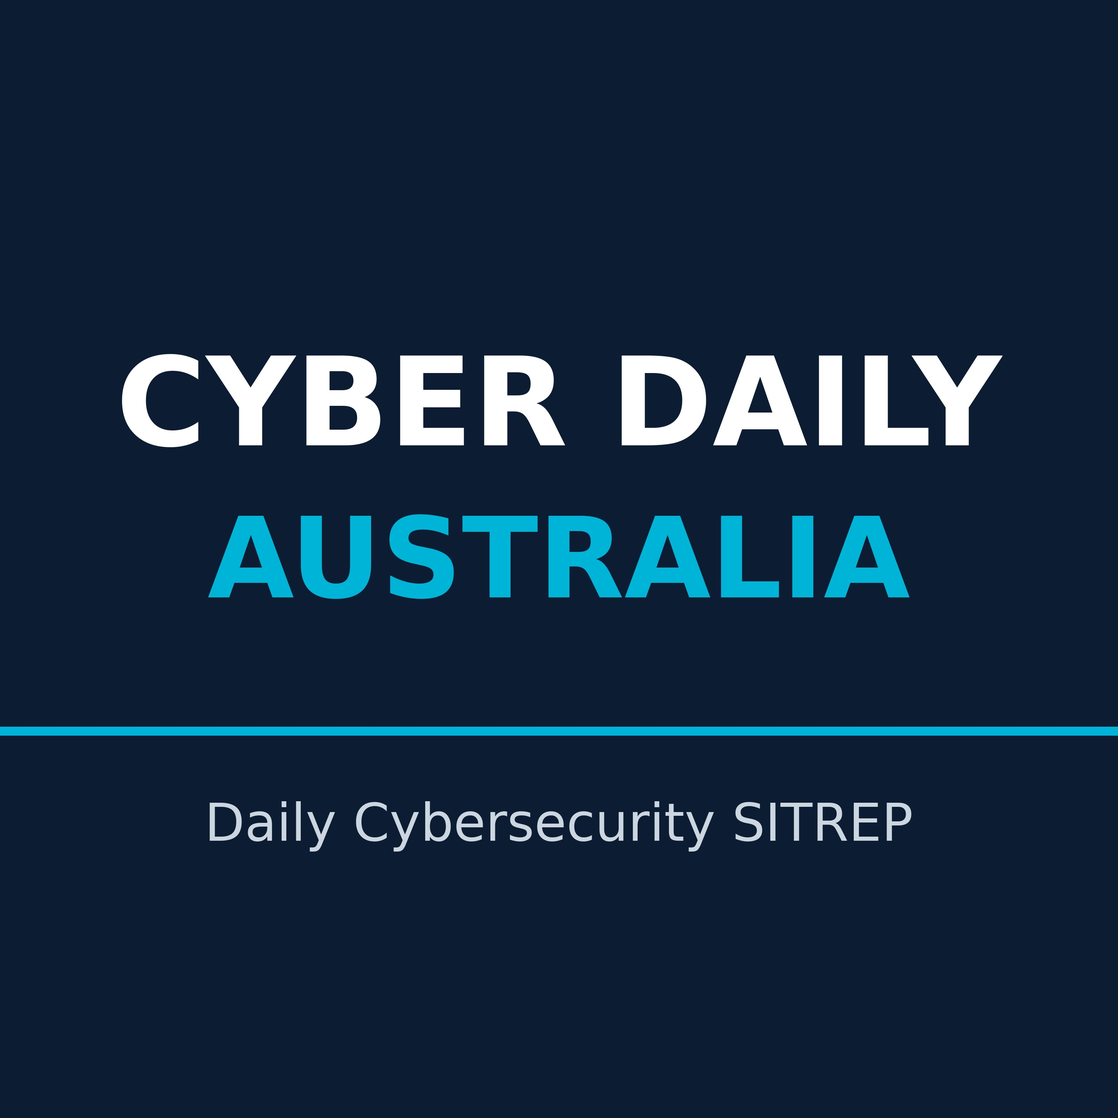
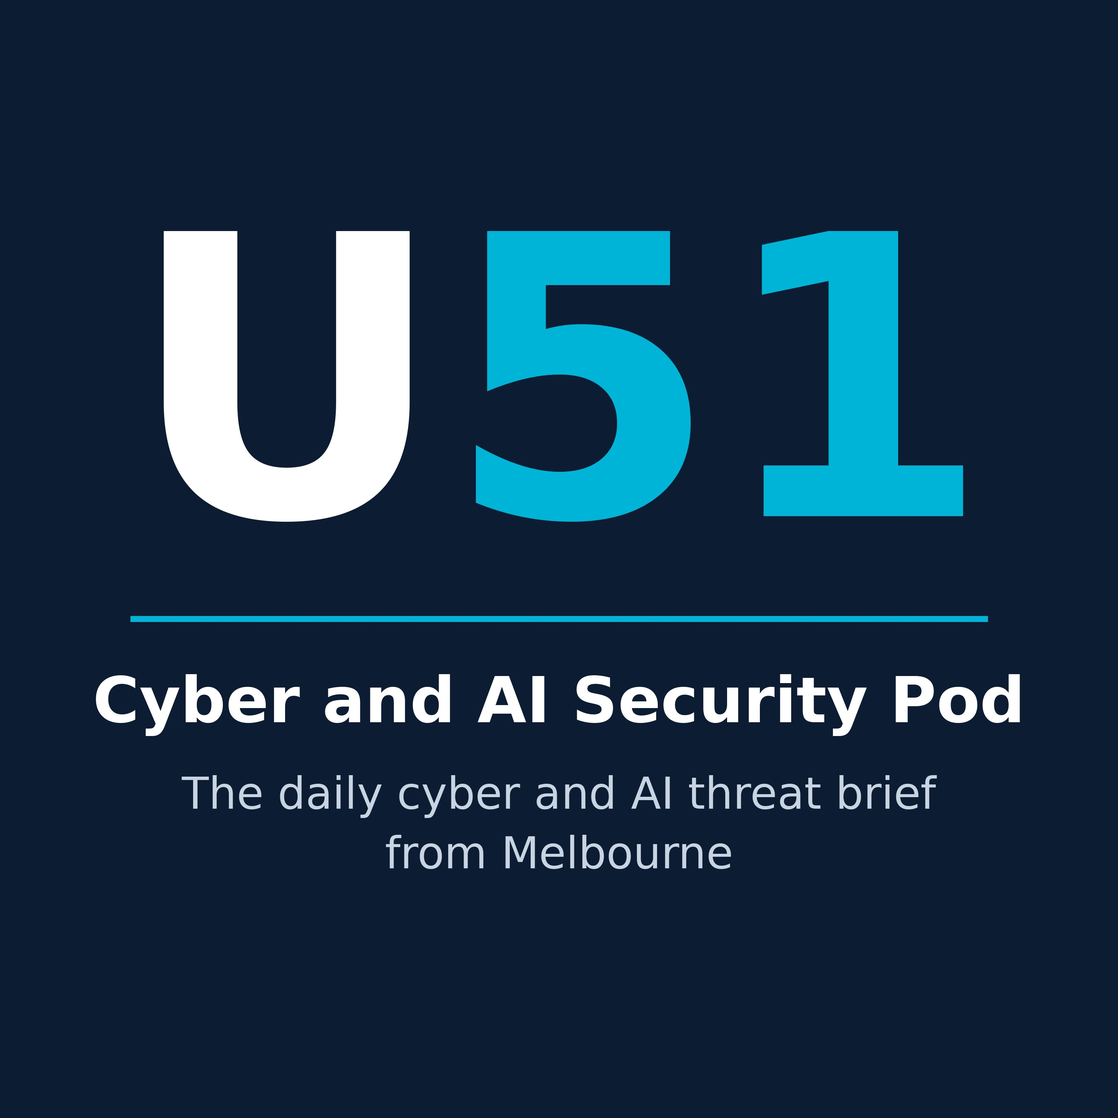
Rebrand to U51 Cyber and AI Security Pod (@u51cyber): new title, description, cover-u51.jpg, nav and X links. Feed URL and item guids unchanged

Changed region(s): [[0.093, 0.186, 0.899, 0.558], [0.0, 0.589, 1.0, 0.775]]

diff --git a/episodes/2026-10-19-0656.html b/episodes/2026-10-19-0656.html
@@ -1,4 +1,4 @@
-<!doctype html><meta charset=utf-8><meta name=viewport content='width=device-width'><title>Episode 4: ConnectWise breach widens and OpenCode AI key theft, 19 October 2026</title><body style='font-family:sans-serif;max-width:760px;margin:auto;padding:1em'><p><a href='../index.html'>Cyber Daily Australia</a> | <a href='https://x.com/CyberDailyAus'>Follow on X (@CyberDailyAus)</a></p><h1>Episode 4: ConnectWise breach widens and OpenCode AI key theft, 19 October 2026</h1><audio controls src='2026-10-19-0656.mp3'></audio><p>The ConnectWise Cloud Backup (formerly SkyKick) incident widened over the weekend: Huntress now sees attacker sign-in activity in almost 1,000 Microsoft Entra tenants, more than 300 of them successful, plus a failed targeted wave against policy, national security, trade and critical minerals organisations. OpenCode disclosed a breach that exposed AI provider keys saved by 1.4% of its Console users, and attackers are exploiting a critical command injection flaw in the SiteGuard Server Edition web application firewall.</p>
+<!doctype html><meta charset=utf-8><meta name=viewport content='width=device-width'><title>Episode 4: ConnectWise breach widens and OpenCode AI key theft, 19 October 2026</title><body style='font-family:sans-serif;max-width:760px;margin:auto;padding:1em'><p><a href='../index.html'>U51 Cyber and AI Security Pod</a> | <a href='https://x.com/u51cyber'>Follow on X (@u51cyber)</a></p><h1>Episode 4: ConnectWise breach widens and OpenCode AI key theft, 19 October 2026</h1><audio controls src='2026-10-19-0656.mp3'></audio><p>The ConnectWise Cloud Backup (formerly SkyKick) incident widened over the weekend: Huntress now sees attacker sign-in activity in almost 1,000 Microsoft Entra tenants, more than 300 of them successful, plus a failed targeted wave against policy, national security, trade and critical minerals organisations. OpenCode disclosed a breach that exposed AI provider keys saved by 1.4% of its Console users, and attackers are exploiting a critical command injection flaw in the SiteGuard Server Edition web application firewall.</p>
 <p>Reporting window: 24 hours to 7:00 am AEDT, Monday 19 October 2026, with a recap of the weekend editions. Open sources only.</p>
 <h3>Weekend recap</h3>
 <ul>

diff --git a/episodes/2026-10-17-0653.html b/episodes/2026-10-17-0653.html
@@ -1,4 +1,4 @@
-<!doctype html><meta charset=utf-8><meta name=viewport content='width=device-width'><title>Episode 2: BeyondTrust and Fortinet exploitation and spy ads on Australian networks, 17 October 2026</title><body style='font-family:sans-serif;max-width:760px;margin:auto;padding:1em'><p><a href='../index.html'>Cyber Daily Australia</a> | <a href='https://x.com/CyberDailyAus'>Follow on X (@CyberDailyAus)</a></p><h1>Episode 2: BeyondTrust and Fortinet exploitation and spy ads on Australian networks, 17 October 2026</h1><audio controls src='2026-10-17-0653.mp3'></audio><p>China-linked operators exploited a BeyondTrust Remote Support zero-day, and a Fortinet flaw was used to plant a memory-only implant on FortiGate firewalls; CISA has set Monday deadlines for both. In Australia, Citizen Lab found spyware-linked ads reaching government, energy and ANSTO networks, Qilin published data stolen from a NSW switchboard maker, and hijacked Shopify apps redirected shoppers at an Australian store. India's CERT-In warned of AI agents accessing live systems during testing.</p>
+<!doctype html><meta charset=utf-8><meta name=viewport content='width=device-width'><title>Episode 2: BeyondTrust and Fortinet exploitation and spy ads on Australian networks, 17 October 2026</title><body style='font-family:sans-serif;max-width:760px;margin:auto;padding:1em'><p><a href='../index.html'>U51 Cyber and AI Security Pod</a> | <a href='https://x.com/u51cyber'>Follow on X (@u51cyber)</a></p><h1>Episode 2: BeyondTrust and Fortinet exploitation and spy ads on Australian networks, 17 October 2026</h1><audio controls src='2026-10-17-0653.mp3'></audio><p>China-linked operators exploited a BeyondTrust Remote Support zero-day, and a Fortinet flaw was used to plant a memory-only implant on FortiGate firewalls; CISA has set Monday deadlines for both. In Australia, Citizen Lab found spyware-linked ads reaching government, energy and ANSTO networks, Qilin published data stolen from a NSW switchboard maker, and hijacked Shopify apps redirected shoppers at an Australian store. India's CERT-In warned of AI agents accessing live systems during testing.</p>
 <p>Reporting window: 24 hours to 7:00 am AEDT, Saturday 17 October 2026. Open sources only.</p>
 <h3>Headlines</h3>
 <ul>

diff --git a/episodes/2026-10-18-0701.html b/episodes/2026-10-18-0701.html
@@ -1,4 +1,4 @@
-<!doctype html><meta charset=utf-8><meta name=viewport content='width=device-width'><title>Episode 3: ConnectWise backup credential abuse and Drupal critical patches, 18 October 2026</title><body style='font-family:sans-serif;max-width:760px;margin:auto;padding:1em'><p><a href='../index.html'>Cyber Daily Australia</a> | <a href='https://x.com/CyberDailyAus'>Follow on X (@CyberDailyAus)</a></p><h1>Episode 3: ConnectWise backup credential abuse and Drupal critical patches, 18 October 2026</h1><audio controls src='2026-10-18-0701.mp3'></audio><p>An attacker used a stolen ConnectWise Cloud Backup (formerly SkyKick) credential to sign in to at least 162 Microsoft 365 tenants, and ConnectWise has shut the service while customers disable the apps and hunt for planted credentials. Drupal shipped fixes for a critical remote code execution flaw in core and warned exploits may follow quickly. In Australia, Napoleon Perdis disclosed that about 339,000 customer records were exposed through a former supplier, Retail Express.</p>
+<!doctype html><meta charset=utf-8><meta name=viewport content='width=device-width'><title>Episode 3: ConnectWise backup credential abuse and Drupal critical patches, 18 October 2026</title><body style='font-family:sans-serif;max-width:760px;margin:auto;padding:1em'><p><a href='../index.html'>U51 Cyber and AI Security Pod</a> | <a href='https://x.com/u51cyber'>Follow on X (@u51cyber)</a></p><h1>Episode 3: ConnectWise backup credential abuse and Drupal critical patches, 18 October 2026</h1><audio controls src='2026-10-18-0701.mp3'></audio><p>An attacker used a stolen ConnectWise Cloud Backup (formerly SkyKick) credential to sign in to at least 162 Microsoft 365 tenants, and ConnectWise has shut the service while customers disable the apps and hunt for planted credentials. Drupal shipped fixes for a critical remote code execution flaw in core and warned exploits may follow quickly. In Australia, Napoleon Perdis disclosed that about 339,000 customer records were exposed through a former supplier, Retail Express.</p>
 <p>Reporting window: 24 hours to 7:00 am AEDT, Sunday 18 October 2026. Open sources only.</p>
 <h3>Headlines</h3>
 <ul>

diff --git a/index.html b/index.html
@@ -1,1 +1,1 @@
-<!doctype html><meta charset=utf-8><title>Cyber Daily Australia</title><h1>Cyber Daily Australia</h1><p>Daily cybersecurity SITREP podcast. <a href='feed.xml'>RSS feed</a> | <a href='https://x.com/CyberDailyAus'>Follow on X (@CyberDailyAus)</a></p><ul><li><a href='episodes/2026-10-19-0656.html'>Episode 4: ConnectWise breach widens and OpenCode AI key theft, 19 October 2026</a></li><li><a href='episodes/2026-10-18-0701.html'>Episode 3: ConnectWise backup credential abuse and Drupal critical patches, 18 October 2026</a></li><li><a href='episodes/2026-10-17-0653.html'>Episode 2: BeyondTrust and Fortinet exploitation and spy ads on Australian networks, 17 October 2026</a></li><li><a href='episodes/2026-10-16-2043.mp3'>Episode 1: BeyondTrust zero-day and edge-device exploitation — 16 October 2026</a></li></ul>
+<!doctype html><meta charset=utf-8><meta name=viewport content='width=device-width'><title>U51 Cyber and AI Security Pod</title><body style='font-family:sans-serif;max-width:760px;margin:auto;padding:1em'><img src='cover-u51.jpg' alt='U51 Cyber and AI Security Pod cover art' width=160 height=160 style='float:right;margin:0 0 1em 1em'><h1>U51 Cyber and AI Security Pod</h1><p>The daily cyber and AI threat brief, from Melbourne. <a href='feed.xml'>RSS feed</a> | <a href='https://x.com/u51cyber'>Follow on X (@u51cyber)</a></p><p><small>Formerly Cyber Daily Australia.</small></p><ul><li><a href='episodes/2026-10-19-0656.html'>Episode 4: ConnectWise breach widens and OpenCode AI key theft, 19 October 2026</a></li><li><a href='episodes/2026-10-18-0701.html'>Episode 3: ConnectWise backup credential abuse and Drupal critical patches, 18 October 2026</a></li><li><a href='episodes/2026-10-17-0653.html'>Episode 2: BeyondTrust and Fortinet exploitation and spy ads on Australian networks, 17 October 2026</a></li><li><a href='episodes/2026-10-16-2043.mp3'>Episode 1: BeyondTrust zero-day and edge-device exploitation — 16 October 2026</a></li></ul></body>

diff --git a/tools/build_site.py b/tools/build_site.py
@@ -1,0 +1,50 @@
+#!/usr/bin/env python3
+"""Rebuild feed.xml and index.html from site/episodes/*.json, and refresh the nav bar on every notes page.
+Usage: python3 build_site.py [SITE_DIR]. Called by publish.sh; safe to run on its own after branding changes."""
+import sys, json, glob, os, re, html
+sys.path.insert(0, "/workspace/podcast"); import brand as B
+site = sys.argv[1] if len(sys.argv) > 1 else "/workspace/podcast/site"
+base = os.environ.get("BASE_URL", B.BASE); e = html.escape
+NAV = f"<p><a href='../index.html'>{B.SHOW}</a> | <a href='{B.X_URL}'>Follow on X (@{B.X_HANDLE})</a></p>"
+DESC = (f"{B.SHOW}: {B.SUBTITLE[0].lower() + B.SUBTITLE[1:]}. A short daily executive briefing on the cyber threats, "
+        f"vulnerabilities and AI security developments that matter, with an Australian lens. Open sources only. "
+        f"Formerly {B.FORMERLY}. Follow on X: @{B.X_HANDLE} ({B.X_URL})")
+FOOT = f'<a href="{B.X_URL}">Follow on X (@{B.X_HANDLE})</a>'
+# refresh the nav bar on existing notes pages (first <p> after <body ...>)
+for f in glob.glob(f"{site}/episodes/*.html"):
+    s = open(f).read(); n = re.sub(r"(<body[^>]*>)<p>.*?</p>", lambda m: m.group(1) + NAV, s, count=1, flags=re.S)
+    if n != s: open(f, "w").write(n)
+eps = sorted((json.load(open(f)) for f in glob.glob(f"{site}/episodes/*.json") if os.path.exists(f[:-5] + ".mp3")), key=lambda x: x["slug"], reverse=True)
+items = ""
+for x in eps:
+    d = x["dur"]; notes = x.get("notes")
+    link = f"<link>{base}/episodes/{x['slug']}.html</link>" if notes else ""
+    enc = ("<content:encoded><![CDATA[" + notes.replace("]]>", "]]&gt;") + f'<p><a href="{base}/episodes/{x["slug"]}.html">Show notes page</a> | {FOOT}</p>]]></content:encoded>') if notes else ""
+    items += f"""  <item>
+    <title>{e(x['title'])}</title>
+    {link}
+    <description>{e(x.get('plain') or x['summary'])}</description>
+    {enc}
+    <pubDate>{x['date']}</pubDate>
+    <guid isPermaLink="false">cyber-daily-australia-{x['slug']}</guid>
+    <enclosure url="{base}/episodes/{x['slug']}.mp3" length="{x['size']}" type="audio/mpeg"/>
+    <itunes:duration>{d//3600:02d}:{d%3600//60:02d}:{d%60:02d}</itunes:duration>
+    <itunes:episodeType>full</itunes:episodeType>
+    <itunes:explicit>false</itunes:explicit>
+  </item>
+"""
+# NB: guid prefix "cyber-daily-australia-" is intentionally unchanged so podcast apps don't see old episodes as new.
+t = open("/workspace/podcast/feed_template.xml").read()
+for k, v in {"SHOW_TITLE": e(B.SHOW), "SITE_URL": base, "DESCRIPTION": e(DESC), "SUBTITLE": e(B.SUBTITLE),
+             "KEYWORDS": e(B.KEYWORDS), "OWNER_EMAIL": B.OWNER_EMAIL, "COVER": B.COVER}.items():
+    t = t.replace("{{" + k + "}}", v)
+t = t.replace("  <!-- ITEMS -->\n", items)
+open(f"{site}/feed.xml", "w").write(t)
+li = "".join(f"<li><a href='episodes/{x['slug']}.html'>{e(x['title'])}</a></li>" if x.get("notes") else f"<li><a href='episodes/{x['slug']}.mp3'>{e(x['title'])}</a></li>" for x in eps)
+open(f"{site}/index.html", "w").write(
+    f"<!doctype html><meta charset=utf-8><meta name=viewport content='width=device-width'><title>{B.SHOW}</title>"
+    f"<body style='font-family:sans-serif;max-width:760px;margin:auto;padding:1em'>"
+    f"<img src='{B.COVER}' alt='{B.SHOW} cover art' width=160 height=160 style='float:right;margin:0 0 1em 1em'>"
+    f"<h1>{B.SHOW}</h1><p>{B.SUBTITLE}. <a href='feed.xml'>RSS feed</a> | <a href='{B.X_URL}'>Follow on X (@{B.X_HANDLE})</a></p>"
+    f"<p><small>Formerly {B.FORMERLY}.</small></p><ul>{li}</ul></body>")
+print(f"built feed.xml ({len(eps)} episodes) and index.html")

diff --git a/tools/make_post.py b/tools/make_post.py
@@ -1,0 +1,34 @@
+#!/usr/bin/env python3
+"""Write a ready-to-paste X post for an episode of U51 Cyber and AI Security Pod (@u51cyber).
+Usage: x/make_post.py <episode-stem> ["optional custom headline sentence"]   (or set X_HEADLINE; SITE_DIR, X_TAGS optional)
+Reads site/episodes/<stem>.json, writes x/<stem>.txt and prints it.
+Rules: <=280 chars both raw and X-weighted (URLs count 23), no em/en dashes, 1-2 hashtags."""
+import json, re, sys, os
+sys.path.insert(0, "/workspace/podcast"); import brand as B
+D = "/workspace/podcast"; SITE = os.environ.get("SITE_DIR", D + "/site"); BASE = os.environ.get("BASE_URL", B.BASE)
+TAGS = os.environ.get("X_TAGS", "#cybersecurity #AIsecurity")
+stem = sys.argv[1]; custom = sys.argv[2] if len(sys.argv) > 2 else (os.environ.get("X_HEADLINE") or None)
+ep = json.load(open(f"{SITE}/episodes/{stem}.json"))
+title = re.sub(r"\s*[\u2014\u2013]\s*", ", ", ep["title"])
+m = re.match(r"Episode (\d+):\s*(.*?),\s*(\d{1,2} \w+) \d{4}$", title)
+num, topics, day = (m.group(1), m.group(2), m.group(3)) if m else ("", title, "")
+url = f"{BASE}/episodes/{stem}.html" if os.path.exists(f"{SITE}/episodes/{stem}.html") else f"{BASE}/episodes/{stem}.mp3"
+
+def xlen(s):  # X weighting: URLs = 23, most non-Latin/emoji = 2
+    s2 = re.sub(r"https?://\S+", "x" * 23, s)
+    return sum(2 if ord(c) > 0x10FF else 1 for c in s2)
+
+def build(head):
+    lead = f"{B.SHORT} Episode {num}" + (f" ({day})" if day else "") if num else B.SHORT
+    return f"\U0001F3A7 {lead}: {head}\n\nShow notes and audio: {url}\n\n{TAGS}"
+
+head = (custom or (topics[:1].upper() + topics[1:])).strip()
+if not head.endswith((".", "!", "?")): head += "."
+post = build(head)
+while max(xlen(post), len(post)) > 280:  # keep both X-weighted and raw length <= 280; trim the headline on a word boundary
+    head = head.rstrip(".").rsplit(" ", 1)[0].rstrip(",;:") + "..."
+    post = build(head)
+assert "\u2014" not in post and "\u2013" not in post
+os.makedirs(f"{D}/x", exist_ok=True)
+open(f"{D}/x/{stem}.txt", "w").write(post + "\n")
+print(post); print(f"[{len(post)} raw, {xlen(post)} X-weighted /280] -> {D}/x/{stem}.txt", file=sys.stderr)

diff --git a/tools/make_banner.py b/tools/make_banner.py
@@ -1,0 +1,40 @@
+# Generates the 1500x500 X banner for U51 Cyber and AI Security Pod (@u51cyber) in the cover style (navy, cyan, DejaVu Sans).
+from PIL import Image, ImageDraw, ImageFont
+import random, math
+S=2; W,H=1500*S,500*S
+NAVY=(12,28,51); CYAN=(0,180,215); GREY=(200,212,226); WHITE=(255,255,255)
+img=Image.new("RGB",(W,H),NAVY)
+ov=Image.new("RGBA",(W,H),(0,0,0,0)); d=ImageDraw.Draw(ov)
+# subtle grid
+for x in range(0,W,60*S): d.line([(x,0),(x,H)],fill=(255,255,255,9),width=S)
+for y in range(0,H,60*S): d.line([(0,y),(W,y)],fill=(255,255,255,9),width=S)
+# sparse network nodes, kept away from the central text block
+random.seed(7); pts=[]
+while len(pts)<46:
+    x,y=random.uniform(0,W),random.uniform(0,H)
+    if 300*S<x<1200*S and 50*S<y<450*S: continue
+    pts.append((x,y))
+for i,a in enumerate(pts):
+    for b in pts[i+1:]:
+        dist=math.dist(a,b)
+        if dist<170*S: d.line([a,b],fill=CYAN+(int(55*(1-dist/(170*S))),),width=S)
+for (x,y) in pts:
+    r=random.choice([2,3,3,4])*S
+    d.ellipse([x-r,y-r,x+r,y+r],fill=CYAN+(110,))
+img=Image.alpha_composite(img.convert("RGBA"),ov)
+d=ImageDraw.Draw(img)
+B="/usr/share/fonts/truetype/dejavu/DejaVuSans-Bold.ttf"; R="/usr/share/fonts/truetype/dejavu/DejaVuSans.ttf"
+f1=ImageFont.truetype(B,64*S); f3=ImageFont.truetype(R,30*S)
+cx=W//2
+def ctext(y,txt,font,fill):
+    w=d.textlength(txt,font=font); d.text((cx-w/2,y),txt,font=font,fill=fill)
+# "U51" (U white, 51 cyan), rule, show name, tagline
+fb=ImageFont.truetype(B,150*S); f2=ImageFont.truetype(B,40*S)
+a,b="U","51"
+wa,wb=d.textlength(a,font=fb),d.textlength(b,font=fb); x0=cx-(wa+wb)/2; y0=78*S-d.textbbox((0,0),a,font=fb)[1]
+d.text((x0,y0),a,font=fb,fill=WHITE); d.text((x0+wa,y0),b,font=fb,fill=CYAN)
+d.line([(cx-300*S,262*S),(cx+300*S,262*S)],fill=CYAN,width=3*S)
+ctext(282*S,"Cyber and AI Security Pod",f2,WHITE)
+ctext(342*S,"The daily cyber and AI threat brief, from Melbourne",f3,GREY)
+img.convert("RGB").resize((1500,500),Image.LANCZOS).save("/workspace/podcast/x_banner.png",optimize=True)
+print("ok")

diff --git a/tools/make_cover.py b/tools/make_cover.py
@@ -1,0 +1,25 @@
+# Generates the 3000x3000 podcast cover in the navy/cyan style. Writes site/cover.jpg and site/<brand.COVER> (cache-busting name used by the feed).
+import sys; sys.path.insert(0, "/workspace/podcast"); import brand as B
+from PIL import Image, ImageDraw, ImageFont
+W = H = 3000
+NAVY=(12,28,51); CYAN=(0,180,215); GREY=(200,212,226); WHITE=(255,255,255)
+img = Image.new("RGB", (W, H), NAVY); d = ImageDraw.Draw(img)
+BF="/usr/share/fonts/truetype/dejavu/DejaVuSans-Bold.ttf"; RF="/usr/share/fonts/truetype/dejavu/DejaVuSans.ttf"
+big = ImageFont.truetype(BF, 1050); mid = ImageFont.truetype(BF, 170); small = ImageFont.truetype(RF, 118)
+cx = W // 2
+# "U" white + "51" cyan, centred optically using the glyph bounding boxes
+a, b = "U", "51"
+ba, bb = d.textbbox((0, 0), a, font=big), d.textbbox((0, 0), b, font=big)
+wa, wb = d.textlength(a, font=big), d.textlength(b, font=big)
+x0 = cx - (wa + wb) / 2; top = 620 - ba[1]
+d.text((x0, top), a, font=big, fill=WHITE); d.text((x0 + wa, top), b, font=big, fill=CYAN)
+y_line = 1660
+d.line([(cx - 1150, y_line), (cx + 1150, y_line)], fill=CYAN, width=16)
+def ctext(y, t, f, fill):
+    w = d.textlength(t, font=f); d.text((cx - w / 2, y), t, font=f, fill=fill)
+ctext(1780, "Cyber and AI Security Pod", mid, WHITE)
+ctext(2060, "The daily cyber and AI threat brief", small, GREY)
+ctext(2220, "from Melbourne", small, GREY)
+for name in ("cover.jpg", B.COVER):
+    img.save(f"/workspace/podcast/site/{name}", quality=92, optimize=True, progressive=False)
+print("ok", img.size)

diff --git a/tools/brand.py b/tools/brand.py
@@ -1,0 +1,11 @@
+# Single source of truth for show branding (imported by build_site.py, x/make_post.py, x/make_banner.py, make_cover.py)
+SHOW = "U51 Cyber and AI Security Pod"
+SHORT = "U51"
+SUBTITLE = "The daily cyber and AI threat brief, from Melbourne"
+X_HANDLE = "u51cyber"
+X_URL = "https://x.com/u51cyber"
+BASE = "https://ajith-at.github.io/cyber-daily-australia"   # do not change: Spotify is subscribed to this feed URL
+COVER = "cover-u51.jpg"   # bump the filename when the art changes so podcast apps refresh
+OWNER_EMAIL = "troy4claude@gmail.com"
+FORMERLY = "Cyber Daily Australia"
+KEYWORDS = "cybersecurity, cyber security, AI security, threat intelligence, ransomware, vulnerabilities, infosec, Australia, Melbourne, daily brief"

diff --git a/tools/STYLE.md b/tools/STYLE.md
@@ -1,8 +1,17 @@
-# Cyber Daily Australia: podcast style rules
+# U51 Cyber and AI Security Pod: podcast style rules
+
+## Name and brand (rebranded 19 Oct 2026; formerly Cyber Daily Australia)
+- Full name: "U51 Cyber and AI Security Pod". Short form in scripts and posts: "U51" (say it as "U fifty-one"; write "U51"). X: @u51cyber, https://x.com/u51cyber.
+- Branding values (name, handle, subtitle, cover filename, keywords) live in `/workspace/podcast/brand.py`; publish.sh, build_site.py, x/make_post.py, x/make_banner.py and x/make_cover.py read from it.
+- The feed URL stays https://ajith-at.github.io/cyber-daily-australia/feed.xml (Spotify is subscribed). Do not rename the repo, change BASE or the item guid prefix `cyber-daily-australia-`.
+- Cover art: site/cover-u51.jpg (3000x3000, also copied to site/cover.jpg); regenerate with `python3 x/make_cover.py`. If the art changes, bump `COVER` in brand.py to a new filename so podcast apps refresh.
+- Never mention the owner's name in any script, notes, feed, site or post. Owner email in the feed stays troy4claude@gmail.com.
+- Do not mention the old name again after Episode 5 (see the one-off note below).
 
 ## Script
 - Length: 1,500–2,200 words (10–15 min), scaled to how significant the day's news is.
-- Intro: one or two sentences only: "Hello from Melbourne, Australia", the date, and the reporting window (Melbourne time). Then go straight into the first story. No show preamble or running order.
+- Intro: one or two sentences only: a Melbourne greeting, the show name "U51", the date, and the reporting window (Melbourne time). Then go straight into the first story. No show preamble or running order.
+  - Model: "Hello from Melbourne, Australia, this is U51, your cyber and AI security brief for Tuesday the 20th of October, covering the 24 hours to 7 am." Vary the wording every day, for example: "Good morning from Melbourne. You're listening to U51, the cyber and AI security brief for ...", "From Melbourne, this is U51 with your cyber and AI threat brief for ...", "Hello from a [weather] Melbourne, it's U51, your security brief for ...". Never reuse the previous episode's exact opening.
 - Australian English, spoken style, neutral executive tone. Expand acronyms on first use; say CVE numbers sparingly and spell them out.
 - No URLs and no IoC strings (point listeners to the show notes instead). Invent nothing beyond the day's SITREP.
 - Confidence: never say "confidence is high", and don't flag high-confidence items at all. Flag only moderate or low items, in varied natural phrasing, for example: "this rests on a single report", "not yet independently verified", "details are still emerging", "treat this as a lead only", "the figures are self-reported". Don't repeat the same phrasing within an episode.
@@ -13,3 +22,30 @@
 
 ## Audio
 - Voice en-AU-WilliamMultilingualNeural, rate -5%, loudness normalised to -16 LUFS, mono 96 kbps.
+
+## Titles and descriptions (Spotify)
+- Episode titles: never use an em dash or en dash. Format: "Episode N: <headline topics>, <D Month YYYY>" (e.g. "Episode 2: Ivanti patch deadline and AI key theft, 17 October 2026").
+- The show-notes file drives the Spotify description. Open it with a 2–3 sentence plain summary of the day's top stories (no greeting, no "welcome", no methodology), then the story list with links. No em dashes anywhere in the notes.
+
+## Character
+- A little dry, understated humour and personality is welcome, e.g. a wry aside about a vendor's patch cadence or a well-placed observation. At most two or three light touches per episode, never at victims' expense, never undermining seriousness on critical items.
+- Never repeat the same joke, phrase, sign-off or aside across episodes; vary openings, transitions and closings daily.
+
+## Weekly and continuity rules (added 18 Oct 2026)
+- Monday episodes: after the intro, give a brief recap of significant weekend activity and the stories covered in the Saturday and Sunday editions (read previous scripts/notes in /workspace/podcast/site/episodes and ep*.txt), for listeners who skip weekends.
+- Localisation: occasionally (not daily) open with a light local touch, such as Melbourne weather, events, public holidays or something significant in Australia, or worldwide if it's very important. Keep it natural, varied and never formulaic; verify any facts (e.g. a weather forecast) from live sources.
+- Continuity: rarely, and only when the story warrants it, link to coverage in a previous episode (e.g. "a follow-up on Friday's BeyondTrust story"). Check the earlier scripts first; keep it natural.
+- Australian section: do not say there were no new ASD/ACSC alerts. Mention ASD/ACSC only when there is something relevant. If nothing important is relevant to Australia, omit the Australian segment entirely without remarking on its absence.
+
+## X (Twitter): @u51cyber, https://x.com/u51cyber (added 19 Oct 2026; was @CyberDailyAus until the rebrand)
+- The site index, every notes page (top nav "Follow on X (@u51cyber)"), each feed item's show-notes footer and the feed channel description link to the X profile. publish.sh (via build_site.py) adds these automatically.
+- Daily X post: publish.sh runs `x/make_post.py <stem>` after each build and writes `/workspace/podcast/x/<stem>.txt` (ready to paste; nothing is posted automatically, as the box has no X access).
+  - Default headline is the episode title's topics. For a better post, regenerate with a custom headline: `X_HEADLINE="..." venv/bin/python x/make_post.py <stem>` or pass it as the 2nd argument. Lead with the 2 to 4 biggest stories, specific and punchy; a light touch of character is fine, but never at victims' expense.
+  - Format: 🎧 U51 Episode N (D Month): headline. / Show notes and audio: <notes URL> / 1 or 2 light hashtags (default `#cybersecurity #AIsecurity`, override with X_TAGS).
+  - Limits: 280 characters or fewer, raw and X-weighted (the script trims the headline if needed). No em or en dashes. Never include personal names or details of the show's owner.
+- Banner: `/workspace/podcast/x_banner.png` (1500x500), regenerate with `python3 x/make_banner.py`.
+
+## One-off note for Episode 5 (Tuesday 20 Oct 2026) only
+- Episode 5 is the first under the new name. Once, early (right after the intro, or folded into it), mention briefly and naturally, with a light touch of humour, that the show has a new name and was formerly Cyber Daily Australia. Example tone only, do not copy: "Same brief, same voice, new name: until yesterday this was Cyber Daily Australia, and from today it's U51. Nothing else has changed, apart from a name that's quicker to say before your first coffee." Don't refer to any other organisation or explain why the name changed. Keep it to one or two sentences and don't mention who chose the name.
+- Mention the new X handle @u51cyber in that same aside if it fits ("you'll find us on X at u51cyber").
+- After Episode 5, never mention the rename or the old name in scripts again. Delete this section once Episode 5 is published.
